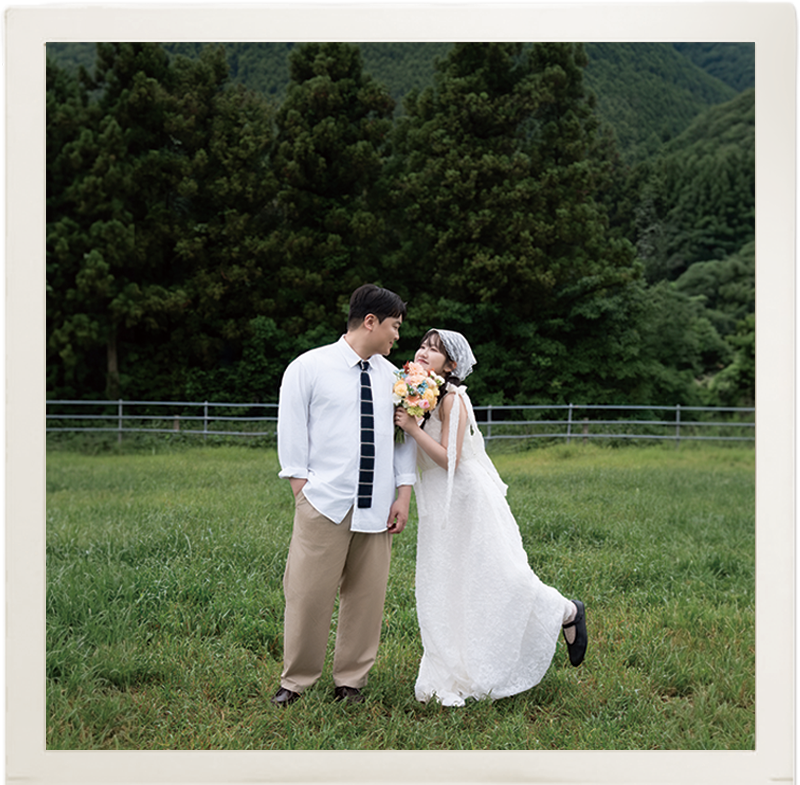
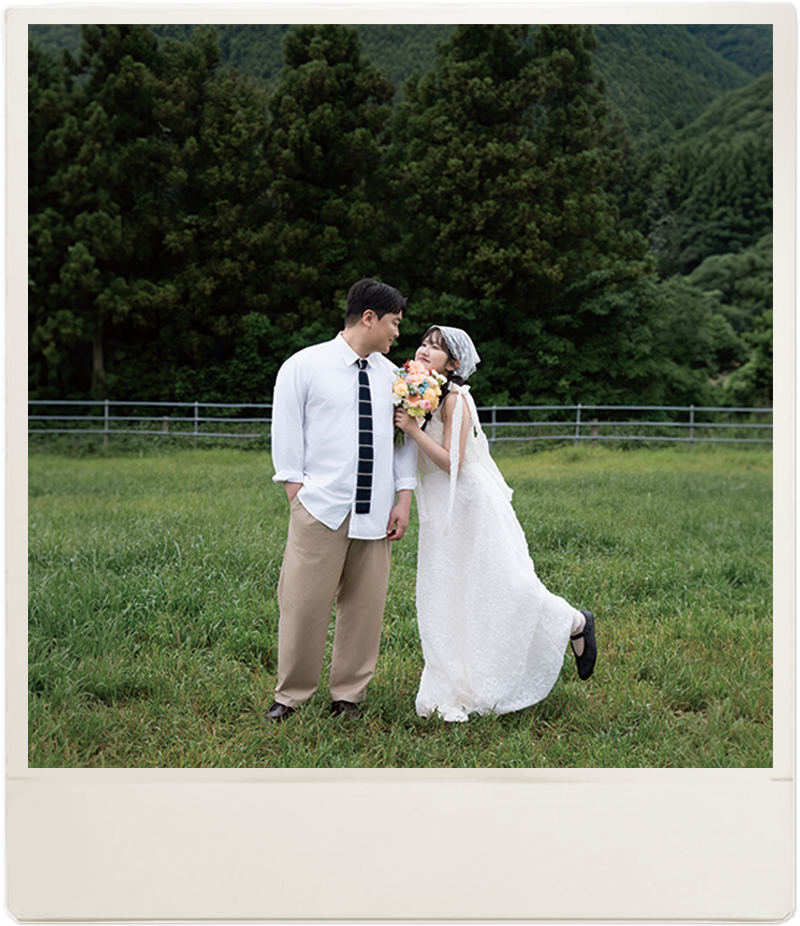
Add files via upload

diff --git a/assets/css/style.css b/assets/css/style.css
@@ -34,7 +34,7 @@ body {
 .hero-photo-frame {
   display: flex;
   flex-direction: column;
-  gap: 93px;
+  gap: 16px;
   align-items: flex-start;
   position: relative;
   width: 100%;
@@ -48,11 +48,11 @@ body {
   width: 100%;
 }
 .hero-main-photo {
-  aspect-ratio: 800 / 785;
+  aspect-ratio: 800 / 926;
   flex: 1 0 0;
   min-width: 1px;
   position: relative;
-  overflow: hidden;
+  overflow: visible;
 }
 .hero-main-photo img {
   position: absolute;
@@ -60,6 +60,54 @@ body {
   width: 100%;
   height: 100%;
   object-fit: cover;
+}
+
+/* 이름 스티커 (신랑/신부 이름, 사진 위 오버레이) */
+.hero-name-sticker {
+  position: absolute;
+  z-index: 2;
+  filter: drop-shadow(0 2px 3px rgba(0, 0, 0, 0.25));
+}
+.hero-name-sticker img {
+  display: block;
+  width: 100%;
+  height: auto;
+}
+.hero-name-groom {
+  left: 13%;
+  top: 30%;
+  width: 32%;
+  transform: rotate(-4deg);
+}
+.hero-name-bride {
+  left: 62%;
+  top: 31%;
+  width: 27%;
+  transform: rotate(3deg);
+}
+
+/* 날짜 / 시간 스티커 (사진 아래) */
+.hero-date-time-stickers {
+  display: flex;
+  align-items: center;
+  justify-content: center;
+  gap: 12px;
+  width: 100%;
+  padding: 0 24px;
+}
+.hero-date-sticker {
+  width: 56%;
+  transform: rotate(-2deg);
+}
+.hero-time-sticker {
+  width: 24%;
+  transform: rotate(2deg);
+}
+.hero-date-sticker img,
+.hero-time-sticker img {
+  display: block;
+  width: 100%;
+  height: auto;
 }
 .hero-title-amen {
   position: absolute;
